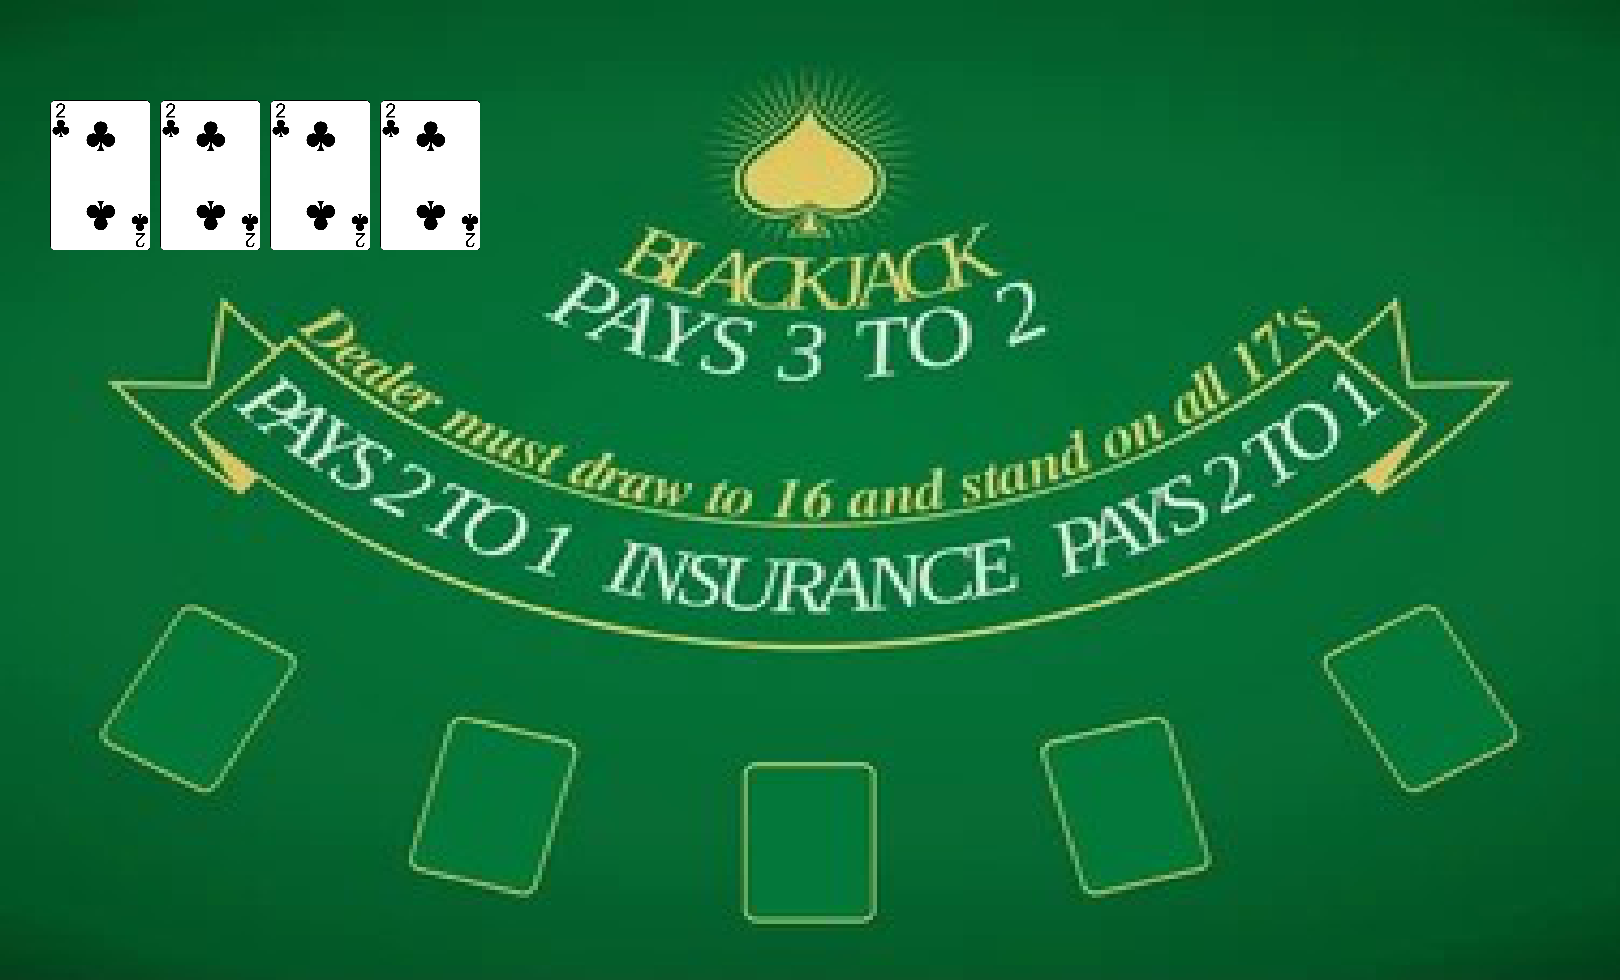
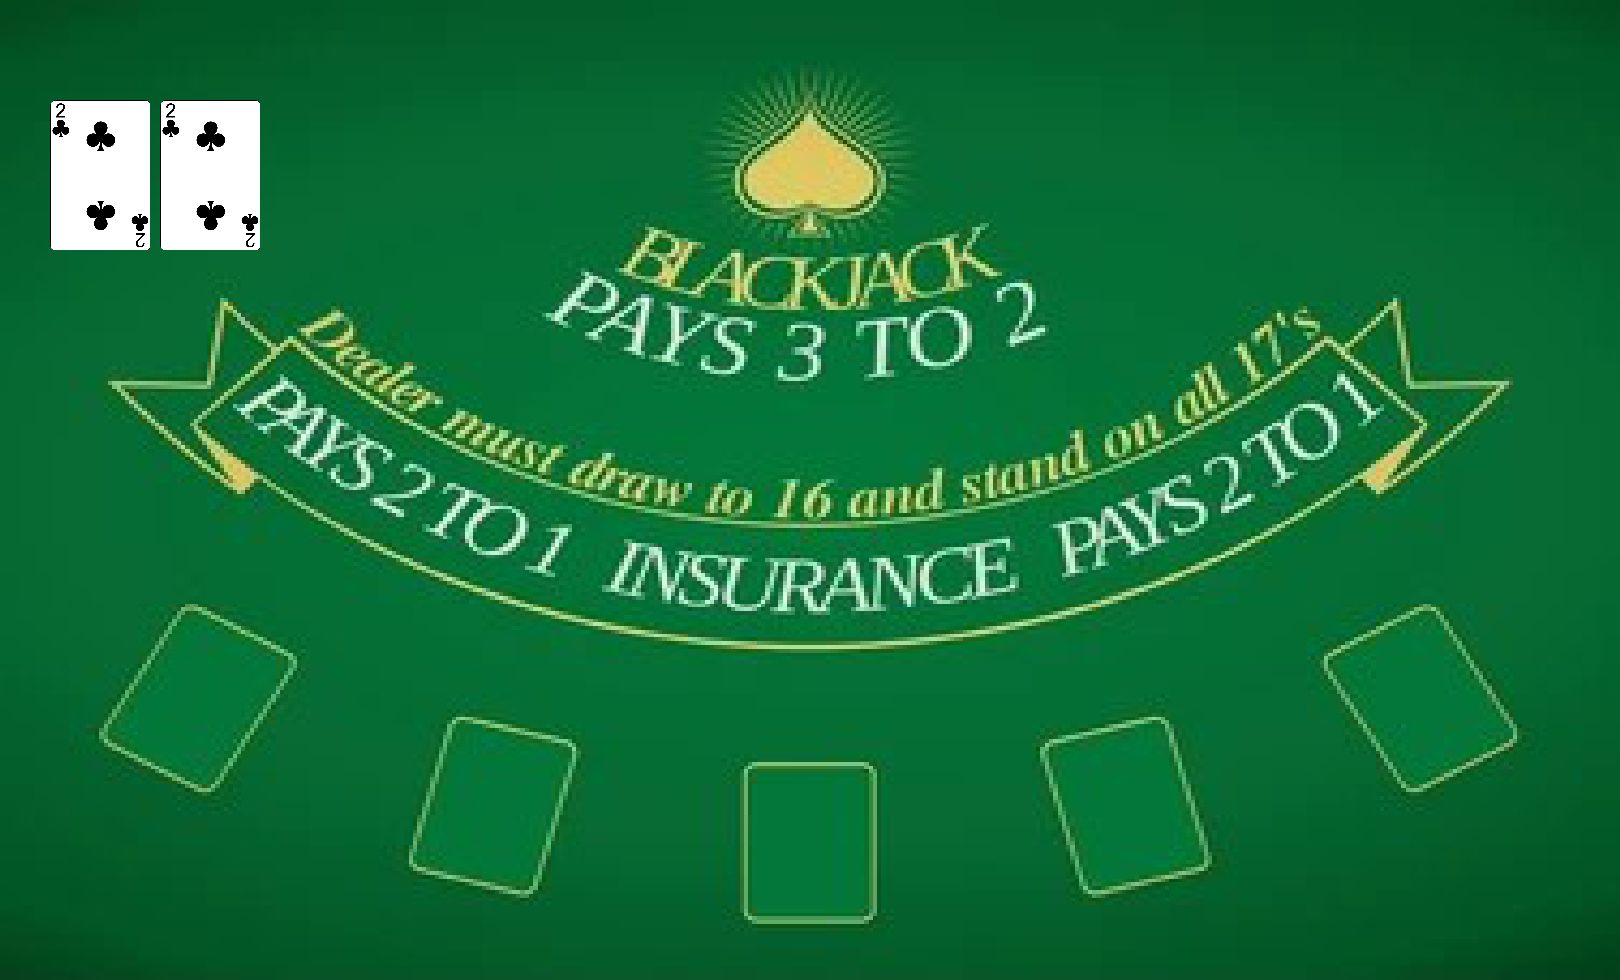
save in progress
added cardslide fun

Changed region(s): [[0.1543, 0.0918, 0.3086, 0.2755]]

diff --git a/CardDef.py b/CardDef.py
@@ -1,6 +1,9 @@
 import pygame
 
+
+# Constants
 CARD_WIDTH, CARD_HEIGHT = 100, 150
+cardbck = pygame.transform.scale(pygame.image.load("PNG-cards-1.3/card_image.png"), (CARD_WIDTH, CARD_HEIGHT))
 
 def cardFlip(screen, cardFront, cardBack, i, dealer): #i is the number of card in hand
 
@@ -24,7 +27,6 @@ def cardFlip(screen, cardFront, cardBack, i, dealer): #i is the number of card i
             # Show the back card, rotated
             rotated_card = pygame.transform.rotate(cardFront, 180 - cardAngle)
             
-        #screen.fill((0, 128, 0))
         screen.blit(pygame.image.load("screenshot.png"), (0,0))
         
         screen.blit(rotated_card, (x, y))
@@ -32,4 +34,34 @@ def cardFlip(screen, cardFront, cardBack, i, dealer): #i is the number of card i
         pygame.time.delay(20)
 
         if cardAngle == 180:
-                break
+            break
+        
+def cardSlide(screen, screensize, i, dealer):
+
+    cardPos = [screensize[0] / 2, 0]
+    speed = 1
+
+    if(dealer):
+         FinalPos = (50 + i * (CARD_WIDTH + 10), 100)
+    else:
+         FinalPos = ( (600 + i * (CARD_WIDTH - 50)), (550 - i * (CARD_HEIGHT- 100)) )
+
+    while(True):
+        if cardPos == FinalPos:
+            break
+        #change in x
+        if(cardPos[0] > FinalPos[0]): cardPos[0] -= speed
+        elif(cardPos[0] < FinalPos[0]): cardPos[0] += speed
+        #change in y
+        if(cardPos[1] > FinalPos[1]): cardPos[1] -= speed
+        elif(cardPos[1] < FinalPos[1]): cardPos[1] += speed
+
+        screen.blit(pygame.image.load("screenshot.png"), (0,0))
+        screen.blit(cardbck, cardPos)
+        pygame.display.flip()
+        pygame.time.delay(2)
+
+
+        #to make a smoother transition do FinalPos[x] - cardPos[x] / speed 
+        #to make a smoother transition do FinalPos[y] - cardPos[y] / speed 
+        # change of rate of x added to card and change of rate of y added to card for each tick speed

diff --git a/Blackjack.py b/Blackjack.py
@@ -18,7 +18,7 @@ HEIGHT = info.current_h - 100
 
 # Constants
 FPS = 30
-CARD_WIDTH, CARD_HEIGHT = 100, 150
+#CARD_WIDTH, CARD_HEIGHT = 100, 150
 
 # Colors
 GREEN = (0, 128, 0)
@@ -33,7 +33,7 @@ CARD_VALUES = {
 }
 
 CARD_IMAGES = {
-    
+
 }
 
 # Card class
@@ -44,7 +44,7 @@ class Card:
         self.value = CARD_VALUES[rank]
         self.placed = False
 
-    def assignCard(self):
+    #def assignCard(self):
         
 
 
@@ -147,6 +147,7 @@ while running:
         if(not card.placed):
             #pygame.image.save(screen, 'screenshot.png')
             pygame.image.save(screen, "screenshot.png")
+            cardSlide(screen, (WIDTH,HEIGHT), i, False)
             cardFlip(screen, image, image2, i, False)
             card.placed = True
         else: 
